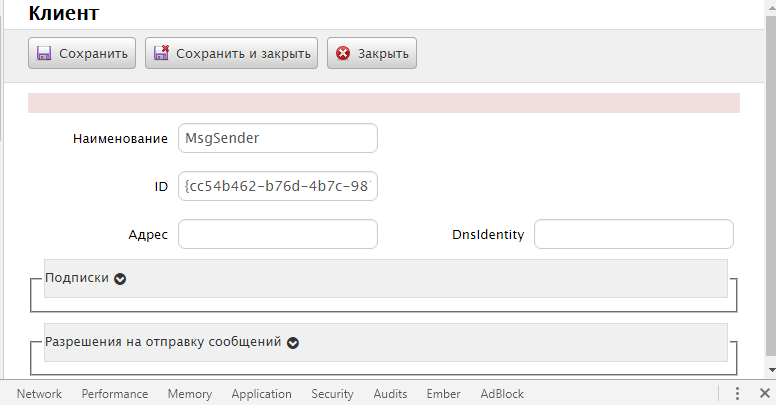
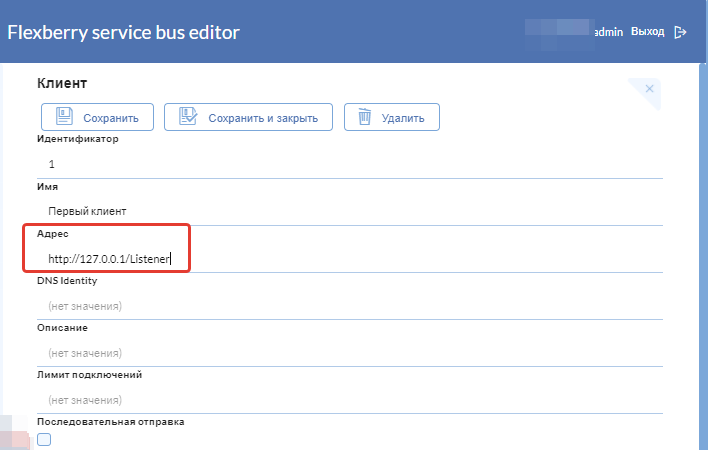
Update articles for adapters of Flexberry Service Bus

Changed region(s): [[0.0, 0.0, 1.0, 1.0], [0.0311, 0.3852, 0.9322, 0.7704], [0.5593, 0.563, 0.9322, 0.6222]]

diff --git a/pages/products/flexberry-servicebus/adapters/fsb_rest-adapters-sample.ru.md b/pages/products/flexberry-servicebus/adapters/fsb_rest-adapters-sample.ru.md
@@ -8,7 +8,7 @@ lang: ru
 summary: Пошаговое руководство по созданию примера REST-адаптера для приложения, подключающегося к корпоративной шине
 ---
 
-Данная статья на примерах описывает создание [адептеров](fsb_adapters.html) (или клиентов) для [Flexberry Service Bus](fsb_landing_page.html) (сервиса шины), позволяющих как отправлять сообщения, так и принимать их. Успешным итогом реализации таких адаптеров является успешно принятое соответствующим клиентом сообщение.
+Данная статья на примерах описывает создание [адептеров](fsb_adapters.html) (или клиентов) для [Flexberry Service Bus](fsb_landing_page.html) (сервиса шины), позволяющих как отправлять сообщения, так и принимать их. Итогом реализации таких адаптеров является успешно принятое соответствующим клиентом сообщение.
 
 Для создания адаптеров по примеру потребуются следующие инструменты:
 
@@ -226,11 +226,11 @@ DELETE http://localhost:7085/RestService/Message/{330732E9-7DB6-42C6-883D-E1596F
 
 Для работы с приложениями отправки-приема сообщений требуется иметь доступ к запущенной инстанции шины (административному приложению). Для этого действия нужен адрес административного приложения и адрес запущенного сервиса шины. Получить их можно следующими способами:
 * административное приложение - локально по адресу [http://localhost:1818/](http://localhost:1818/). Данный вариант возможен, если используется [Docker](fsb_installation.html).
-* сервис - локально по адресу [http://localhost:7085/RestService](http://localhost:7085/RestService). Данный вариант возможен, если используется `Docker`.
+* сервис - локально по адресу [http://localhost:7075/WcfService](http://localhost:7075/WcfService). Данный вариант возможен, если используется `Docker`.
 * с помощью адресов, предоставленных Администратором, в случае централизованно развернутой шины
 
 Также для последующей работы адаптеров нужно:
-* создать тип сообщений, которые будут участвовать в процессе-передачи-приема
+* создать тип сообщений, которые будут участвовать в процессе передачи-приема
 * клиентов шины
 * оформить подписки для клиентов, принимающих сообщения
 * разрешения на передачу сообщений.
@@ -241,12 +241,12 @@ DELETE http://localhost:7085/RestService/Message/{330732E9-7DB6-42C6-883D-E1596F
 * В дереве слева в пункте "Маршрутизация" выбрать пункт меню "Типы сообщений"
 * Нажать кнопку "Добавить"
 * На открывшейся форме указать:
-    * наименование типа сообщений- можно задать произвольное
-    * ID (или PK) - генерируется автоматически, потребуется при настройке адаптеров. Наименование можно изменить на строку, написанную верюлюжбим стилем (например, MessageType).
-    * также можно указать комментарий.
+    * имя типа сообщений- можно задать произвольное
+    * идентификатор - потребуется при настройке адаптеров. Наименование можно задать произвольное, но если оно состоит из нескольких слов, то должно быть написано верюлюжбим стилем (например, MessageType).
+    * также можно дополнить тип сообщения описанием
 * Сохранить по кнопке "Сохранить и закрыть"
 
-![](/images/pages/products/flexberry-servicebus/adapters/hello-type.png)
+![](/images/pages/products/flexberry-servicebus/components/message-type-edit.png)
 
 ### Регистрация клиента в сервисной шине
 
@@ -254,10 +254,10 @@ DELETE http://localhost:7085/RestService/Message/{330732E9-7DB6-42C6-883D-E1596F
 * В дереве слева в пункте "Маршрутизация" выбрать пункт меню "Клиенты"
 * Нажать кнопку "Добавить"
 * На открывшейся форме указать:
-    * наименование клиента - можно задать произвольное
-    * ID (или PK) - генерируется автоматически, потребуется при настройке адаптеров. Наименование можно изменить на строку, написанную верюлюжбим стилем (например, MessageSender).
-    Клиентов для примера потребуется три, соответственно, их ID должны позволять отличать клиентов друг от друга и использовать в настройке соответствующего адаптера.
+    * имя клиента - можно задать произвольное
+    * идентификатор - потребуется при настройке адаптеров. Наименование можно задать произвольное, но если оно состоит из нескольких слов, то должно быть написано верюлюжбим стилем (например, MessageSender).
     * адрес требуется для клиентов, принимающих сообщения. Его необходимо будет взять из конфига соответствующего созданного адаптера, принимающего сообщения.
+    * остальные поля не нужны для создания описываемых примеров
 * Нажать "Сохранить и закрыть" на форме.
 
 ![](/images/pages/products/flexberry-servicebus/adapters/add-client.png)
@@ -270,11 +270,11 @@ DELETE http://localhost:7085/RestService/Message/{330732E9-7DB6-42C6-883D-E1596F
 * в строке выбрать созданный ранее тип сообщений
 * нажать "Сохранить и закрыть" на форме.
 
-![](/images/pages/products/flexberry-servicebus/adapters/permission-message.png)
+![](/images/pages/products/flexberry-servicebus/components/clients-sender-edit.png)
 
 #### Формирование подписки на сообщение
 
-Для клиента, принимающего сообщение, нужно сформировать подписку на сообщение. Для описываемого примера подписки понадобится две: для ...
+Для клиента, принимающего сообщение, нужно сформировать подписку на сообщение.
 
 * В дереве слева в пункте "Маршрутизация" выбрать пункт меню "Подписки на сообщения"
 * На открывшейся форме:
@@ -282,10 +282,9 @@ DELETE http://localhost:7085/RestService/Message/{330732E9-7DB6-42C6-883D-E1596F
     * тип сообщения, созданный ранее
     * установить дату прекращения действия подписки
     * "Передавать через" - это сервис, используемый для передачи сообщений. Для примера нужен WCF.
-    * для того чтобы сообщения оставались в шине не ставить флаг "Callback"
 * Сохранить по кнопке "Сохранить и закрыть"
 
-![](/images/pages/products/flexberry-servicebus/adapters/subscription-message.png)
+![](/images/pages/products/flexberry-servicebus/components/clients-receiver-edit.png)
 
 ## Пример создания клиента, отправляющего сообщения
 
